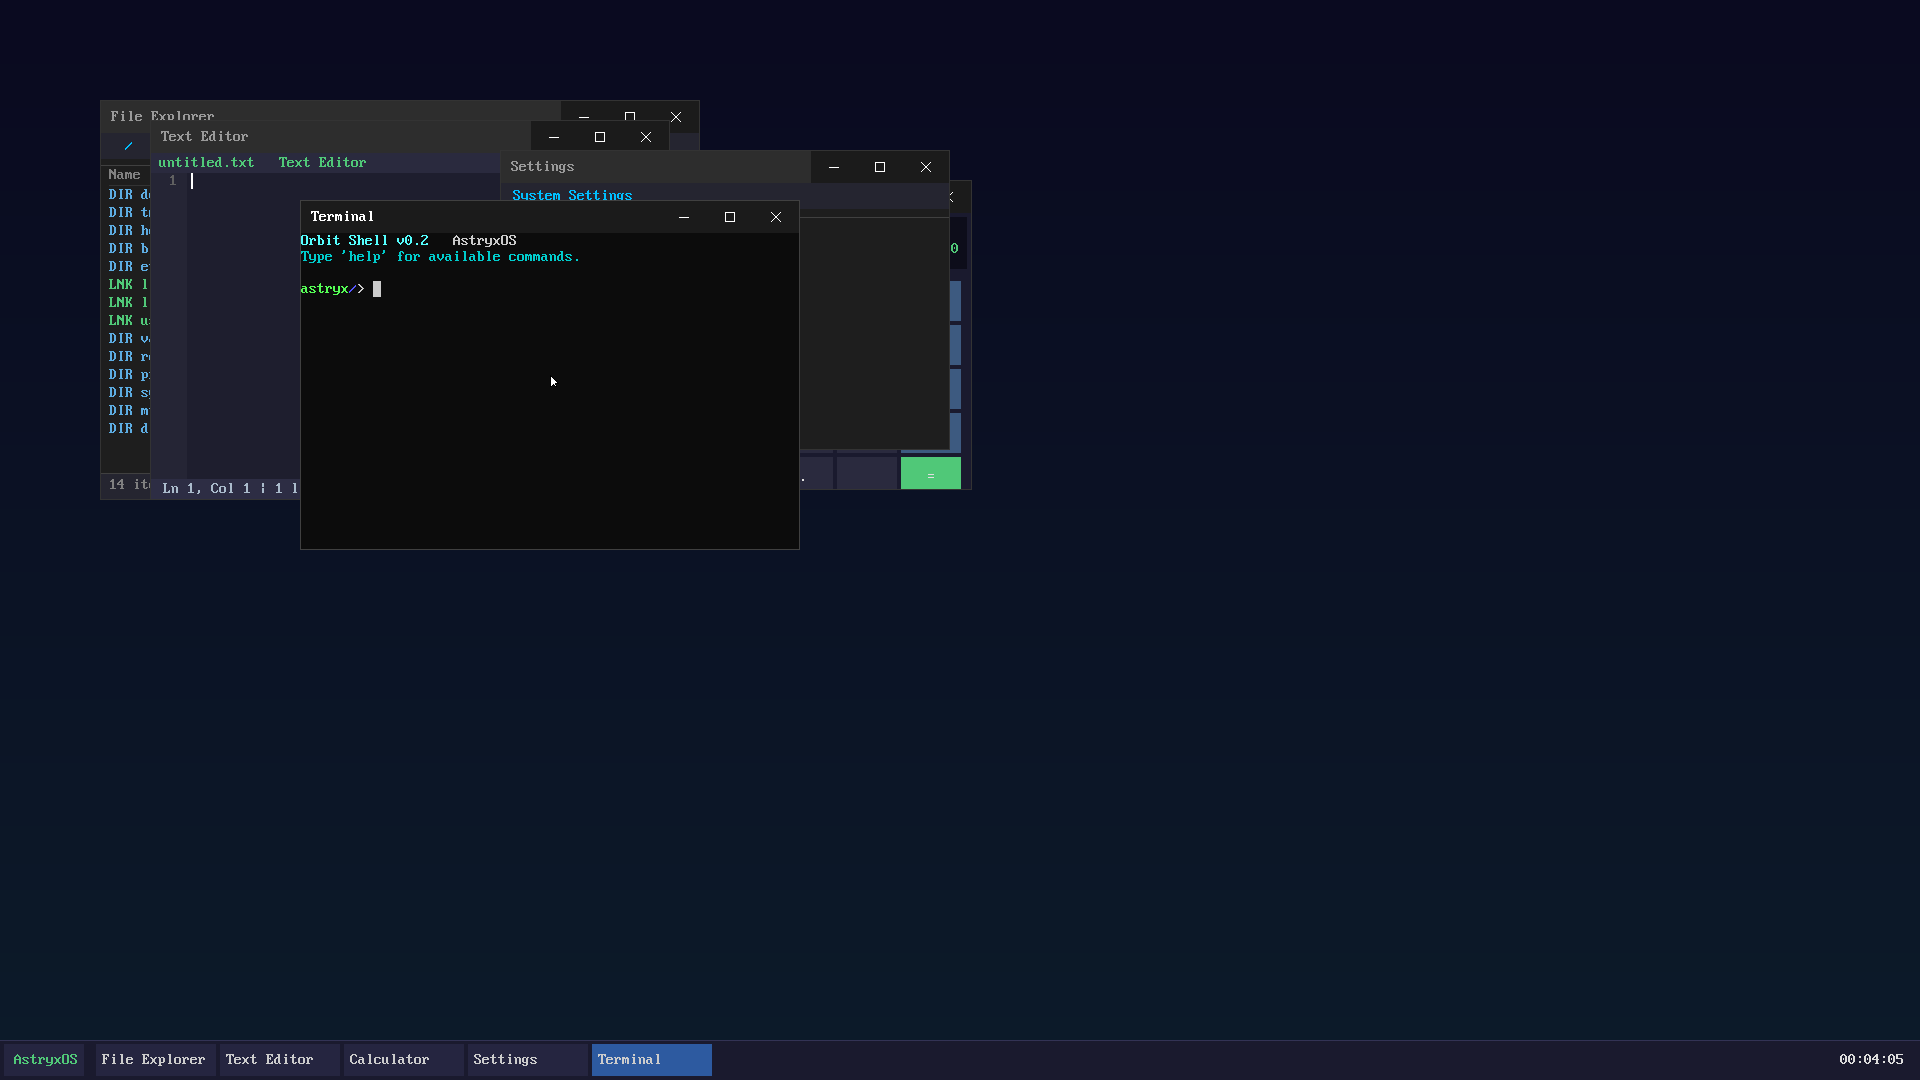
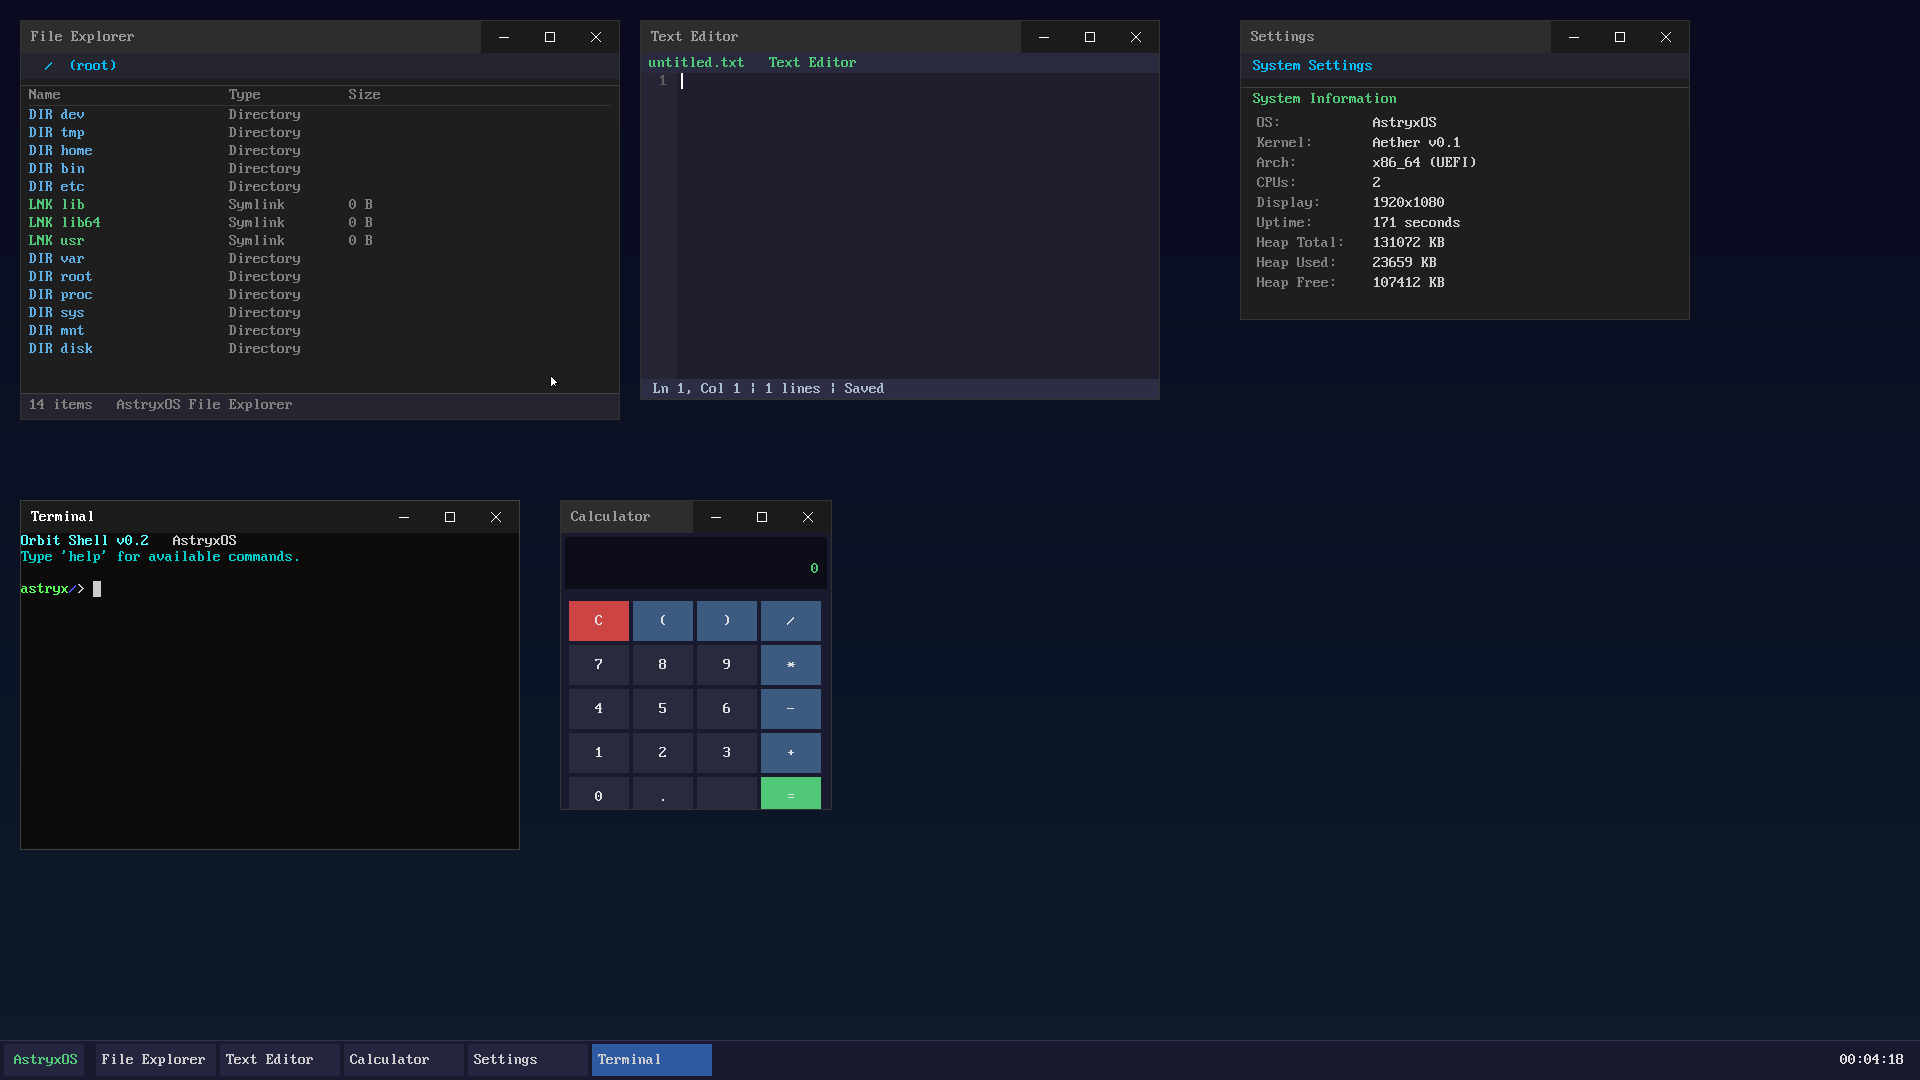
feat: demo desktop — 3×2 grid layout + refresh screenshot
Replaces the overlapping cascade with a non-overlapping 3×2 grid
tuned for 1920×1080 so every window's contents are visible in a
full-desktop screenshot:

  Row 1: File Explorer | Text Editor | Settings
  Row 2: Terminal      | Calculator  | (free)

README screenshot updated to match.

diff --git a/kernel/src/gui/desktop.rs b/kernel/src/gui/desktop.rs
@@ -56,7 +56,10 @@ pub fn focus_app(name: &str) {
 }
 
 /// Creates the demo desktop layout: a taskbar pinned to the bottom of the
-/// screen and three overlapped demo windows (File Explorer, Terminal, Settings).
+/// screen and six non-overlapping demo windows laid out in a 3×2 grid
+/// (File Explorer / Text Editor / Settings on the top row, Terminal /
+/// Calculator on the bottom row). Tuned for 1920×1080 so each window's
+/// contents remain legible in a full-desktop screenshot.
 pub fn launch_desktop() {
     // (a) Get screen dimensions from the active desktop.
     let (screen_width, screen_height) =
@@ -76,12 +79,17 @@ pub fn launch_desktop() {
     crate::msg::queue::create_queue(taskbar);
     *TASKBAR_HANDLE.lock() = Some(taskbar);
 
-    // (c) Demo Window 1 — File Explorer
+    // 3×2 grid layout, 1920×1080-tuned, 20 px outer margin.
+    //   Row 1 (y=20):  File Explorer 600×400  |  Text Editor 520×380  |  Settings 450×300
+    //   Row 2 (y=500): Terminal      500×350  |  Calculator   272×310
+    // No window overlaps any other — content of each is fully visible.
+
+    // (c) Demo Window 1 — File Explorer (row 1, col 1)
     let file_explorer: WindowHandle = crate::wm::create_window(
         "Static",
         "File Explorer",
-        100,
-        100,
+        20,
+        20,
         600,
         400,
         WindowStyle::overlapped(),
@@ -90,12 +98,12 @@ pub fn launch_desktop() {
     crate::msg::queue::create_queue(file_explorer);
     *EXPLORER_HANDLE.lock() = Some(file_explorer);
 
-    // (d) Demo Window 2 — Terminal
+    // (d) Demo Window 2 — Terminal (row 2, col 1)
     let terminal: WindowHandle = crate::wm::create_window(
         "Edit",
         "Terminal",
-        300,
-        200,
+        20,
+        500,
         500,
         350,
         WindowStyle::overlapped(),
@@ -104,12 +112,12 @@ pub fn launch_desktop() {
     crate::msg::queue::create_queue(terminal);
     *TERMINAL_HANDLE.lock() = Some(terminal);
 
-    // (e) Demo Window 3 — Settings
+    // (e) Demo Window 3 — Settings (row 1, col 3)
     let settings: WindowHandle = crate::wm::create_window(
         "Static",
         "Settings",
-        500,
-        150,
+        1240,
+        20,
         450,
         300,
         WindowStyle::overlapped(),
@@ -118,12 +126,12 @@ pub fn launch_desktop() {
     crate::msg::queue::create_queue(settings);
     *SETTINGS_HANDLE.lock() = Some(settings);
 
-    // (f) Demo Window 4 — Text Editor
+    // (f) Demo Window 4 — Text Editor (row 1, col 2)
     let editor: WindowHandle = crate::wm::create_window(
         "Edit",
         "Text Editor",
-        150,
-        120,
+        640,
+        20,
         520,
         380,
         WindowStyle::overlapped(),
@@ -132,12 +140,12 @@ pub fn launch_desktop() {
     crate::msg::queue::create_queue(editor);
     *EDITOR_HANDLE.lock() = Some(editor);
 
-    // (g) Demo Window 5 — Calculator
+    // (g) Demo Window 5 — Calculator (row 2, col 2)
     let calculator: WindowHandle = crate::wm::create_window(
         "Static",
         "Calculator",
-        700,
-        180,
+        560,
+        500,
         272,
         310,
         WindowStyle::overlapped(),